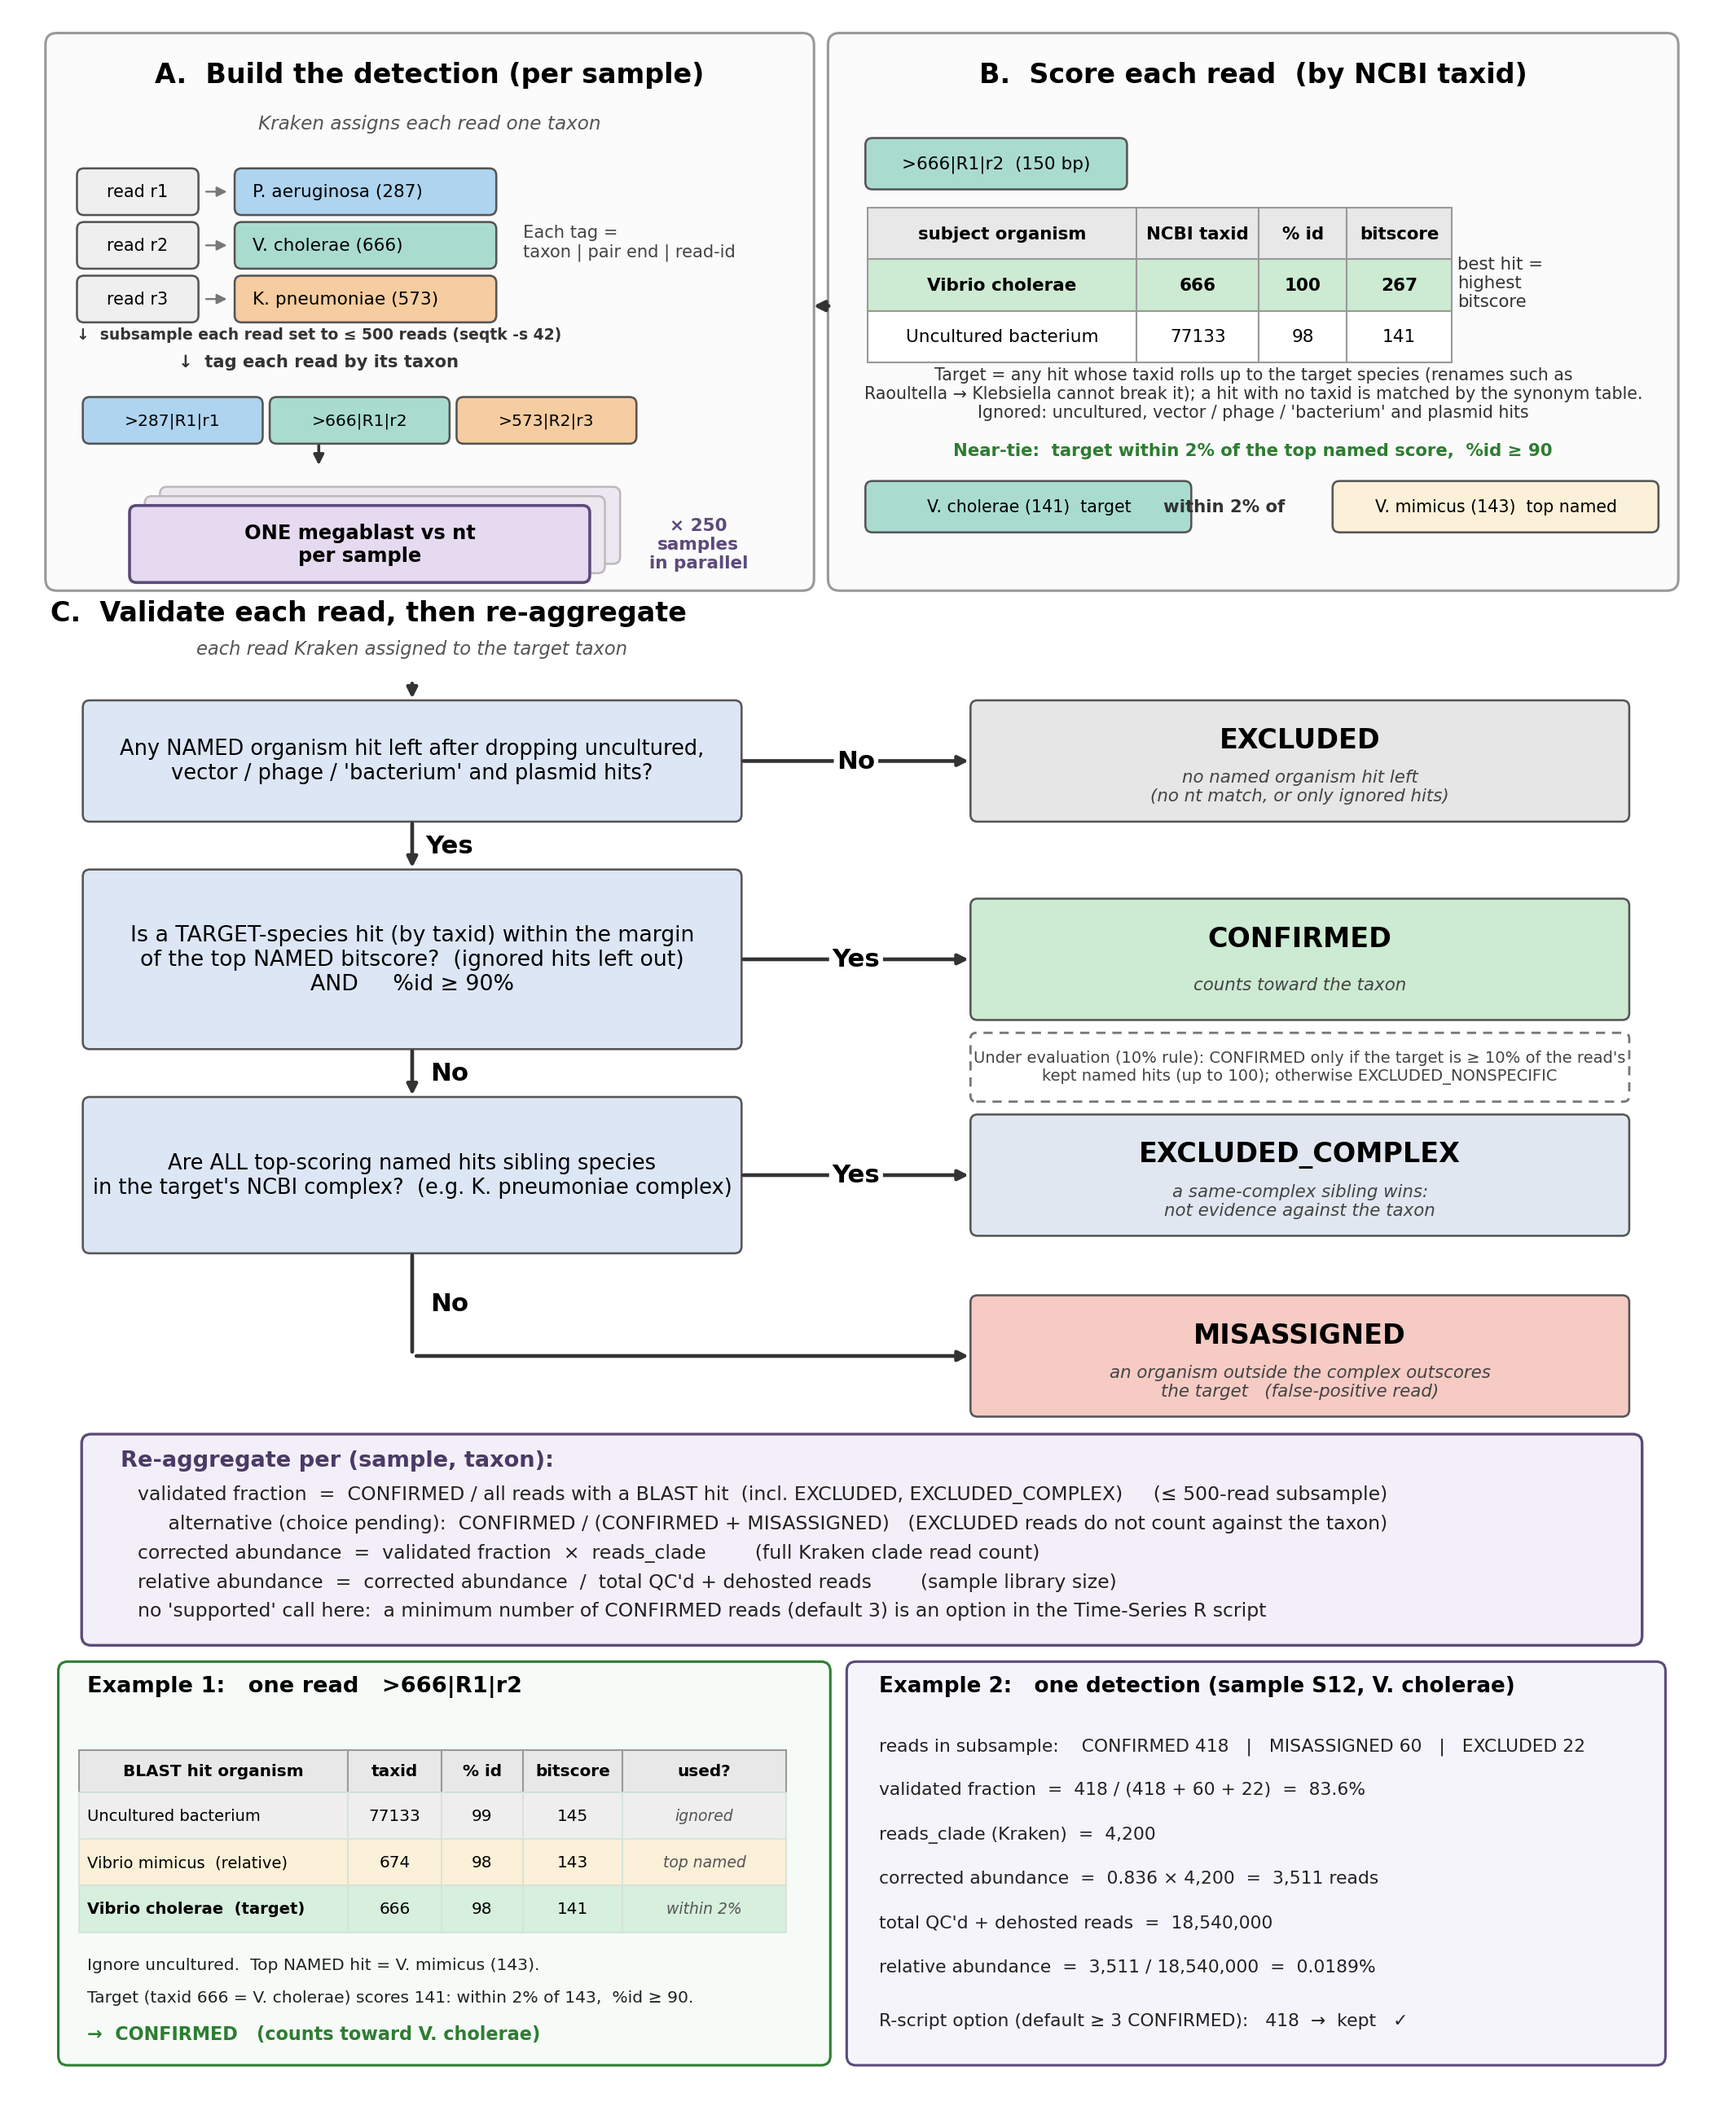
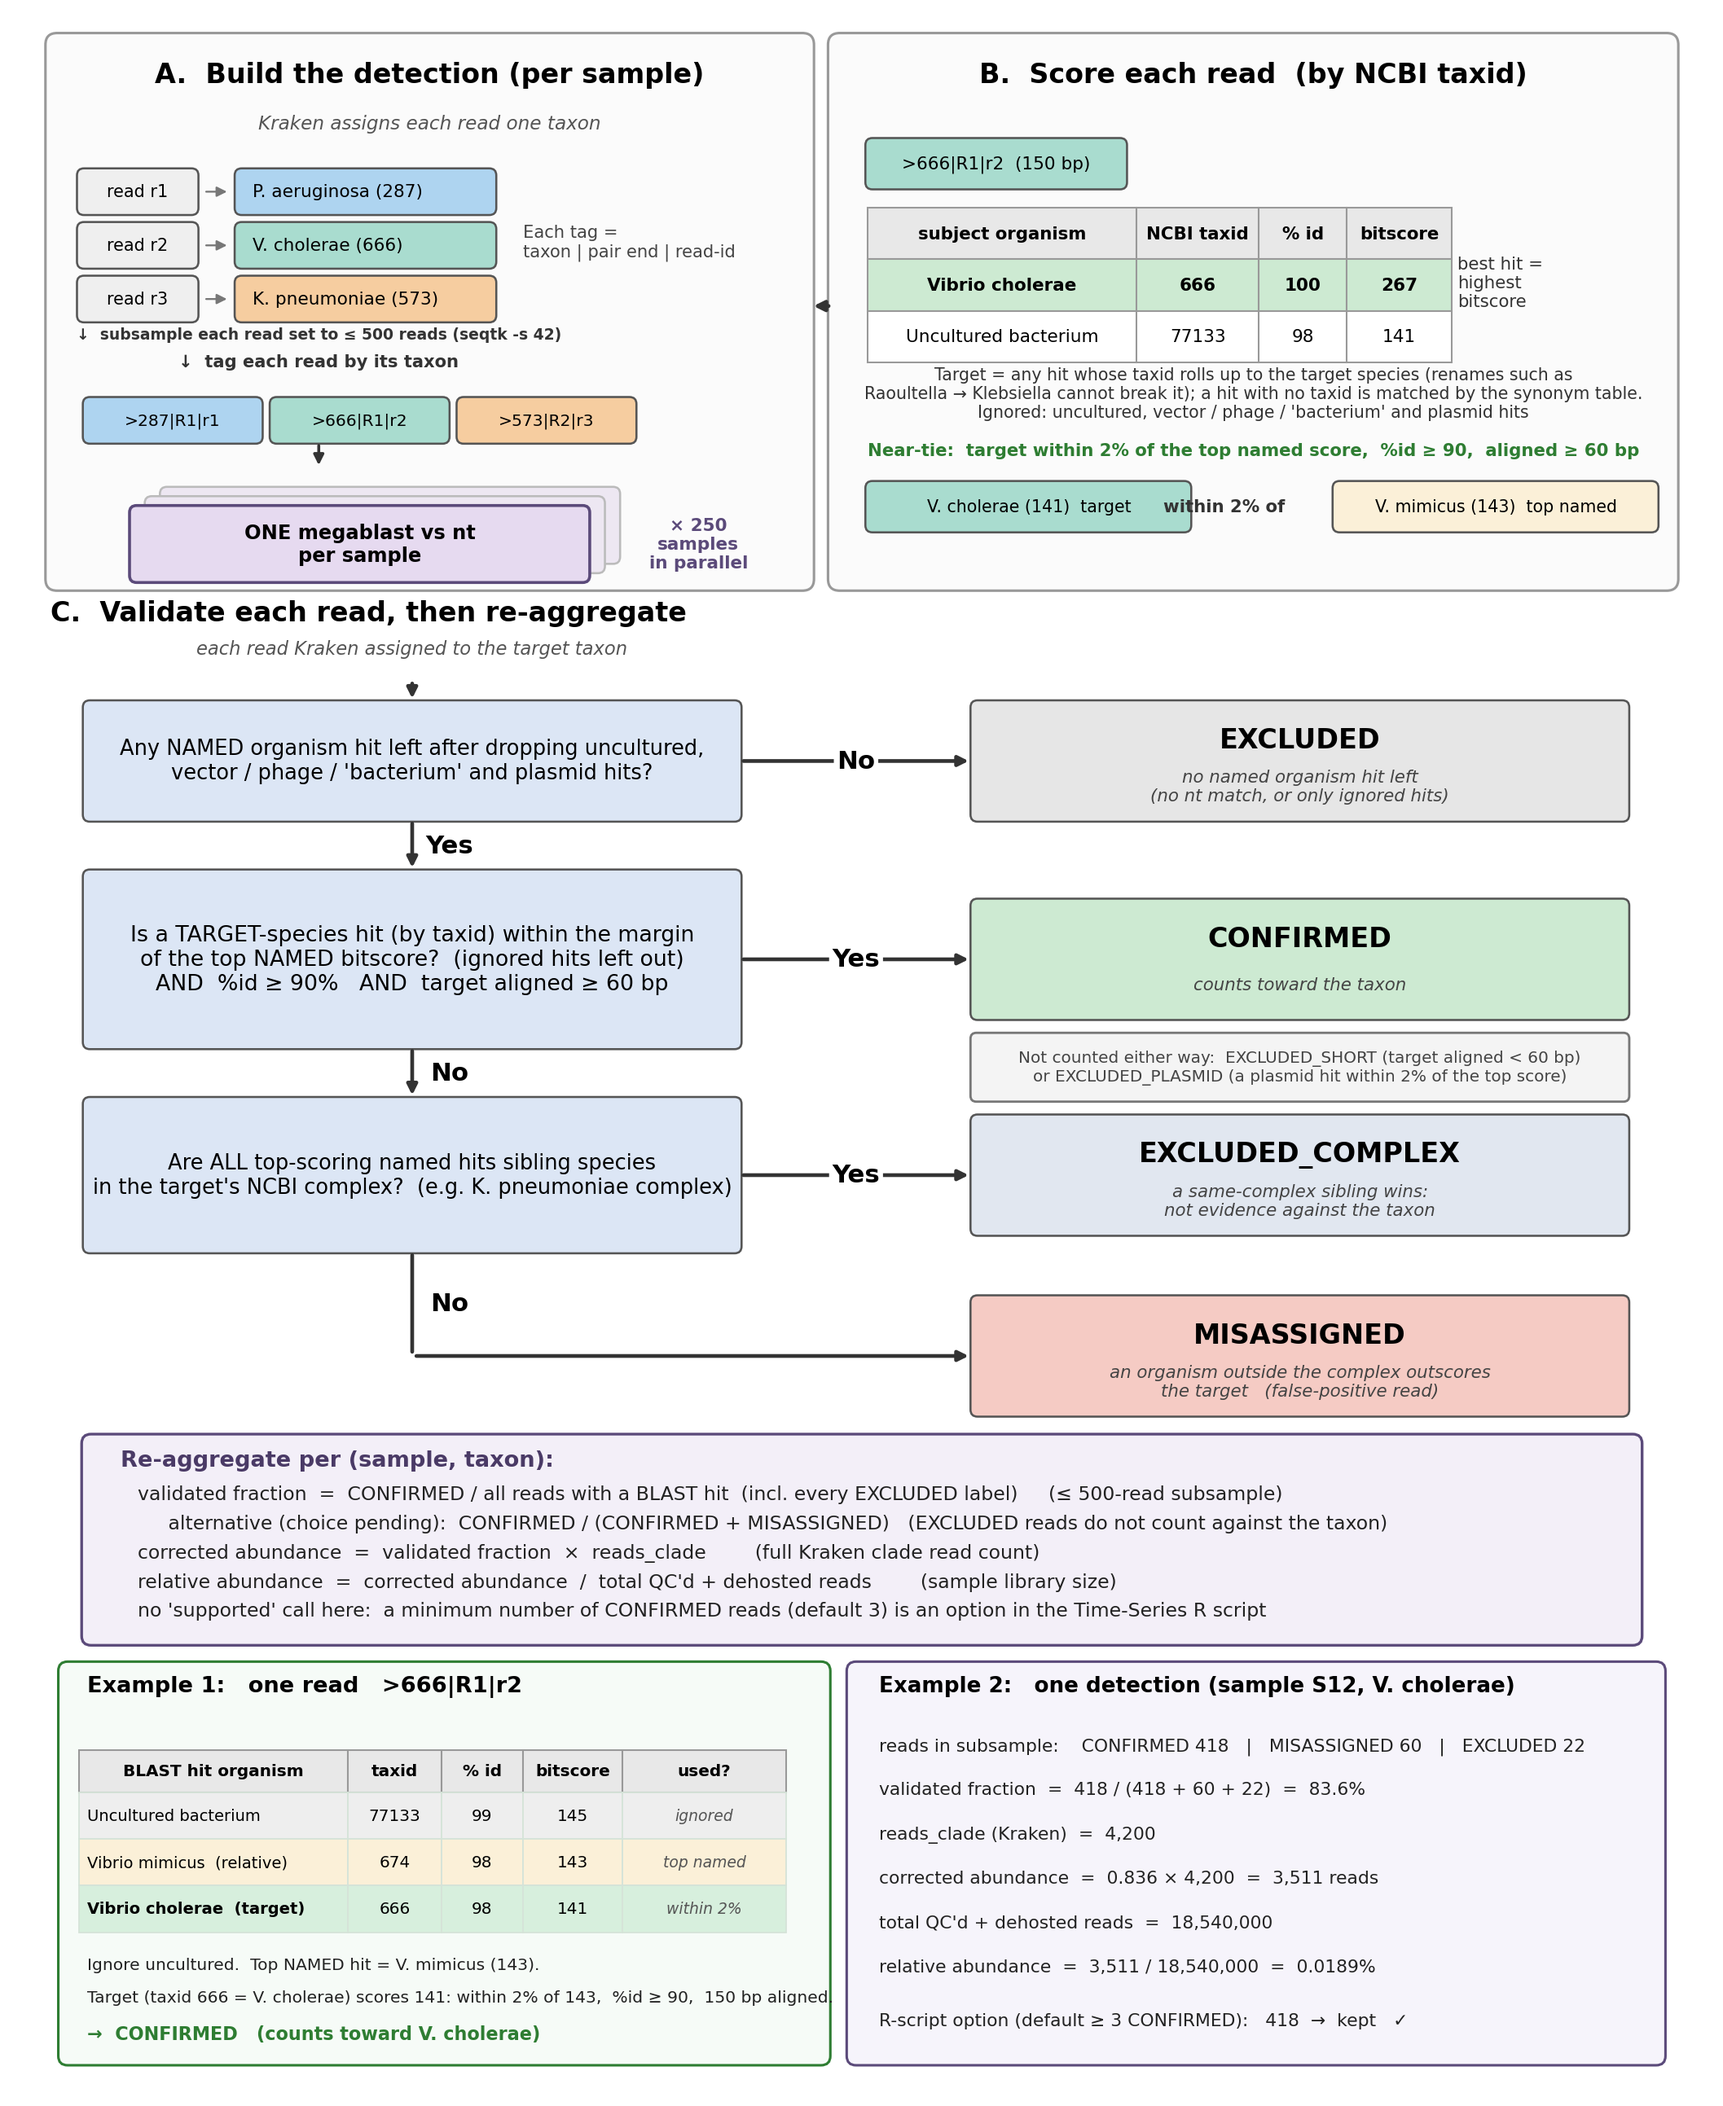
Final rules as defaults: 60 bp minimum alignment (#16), plasmid and non-organism hits ignored (#17, #19)
--min_aln_len defaults to 60 (40% of a 150 bp read); below it CONFIRMED reads tie with 3-5x more species.
--ignore_noncellular / --ignore_plasmid default on (--no-... to turn off). 10% rule stays off (not adopted).
Master figure: 60 bp in the CONFIRMED test, EXCLUDED_SHORT / EXCLUDED_PLASMID shown as not counted either way.

diff --git a/docs/make_master_methods_figure.py b/docs/make_master_methods_figure.py
@@ -5,9 +5,9 @@ Read-level validation v4 (workflow/scripts/false_positive_detection.py --taxonom
 hits are matched to the target by NCBI taxid rolled up to species (names + synonym table only as a fallback).
 Ignored hits: uncultured, non-organism (vector / phage / unidentified plasmid / "bacterium", #17) and any hit
 titled "plasmid" (#19). Each read is EXCLUDED (no named hit left), CONFIRMED (target within 2% of the top named
-bitscore, %id >= 90), EXCLUDED_COMPLEX (every top named hit is a sibling in the target's NCBI complex), or
-MISASSIGNED. The 10% rule (target >= 10% of kept named hits, else EXCLUDED_NONSPECIFIC) is drawn as under
-evaluation. Per (sample, taxon): validated fraction = CONFIRMED / all reads with a hit; corrected abundance =
+bitscore, %id >= 90, target aligned >= 60 bp), EXCLUDED_SHORT (would confirm but aligned < 60 bp), EXCLUDED_PLASMID
+(a plasmid hit scores within 2% of the top), EXCLUDED_COMPLEX (every top named hit is a sibling in the target's
+NCBI complex), or MISASSIGNED. The 10% rule was evaluated and not adopted. Per (sample, taxon): validated fraction = CONFIRMED / all reads with a hit; corrected abundance =
 validated fraction x full Kraken count. No 'supported' call: a minimum CONFIRMED count is an R-script option.
 Schematic/illustrative numbers.
 """
@@ -63,7 +63,7 @@ for i,row in enumerate(data):
 ax.text(12.35,15.5,"best hit =\nhighest\nbitscore",ha="left",va="center",fontsize=8.3,color="#333")
 ax.text(10.6,14.55,"Target = any hit whose taxid rolls up to the target species (renames such as\nRaoultella → Klebsiella cannot break it); a hit with no taxid is matched by the synonym table.\nIgnored: uncultured, vector / phage / 'bacterium' and plasmid hits",
         ha="center",va="center",fontsize=8.0,color="#333")
-ax.text(10.6,14.02,"Near-tie:  target within 2% of the top named score,  %id ≥ 90",ha="center",fontsize=8.3,fontweight="bold",color=GRN)
+ax.text(10.6,14.02,"Near-tie:  target within 2% of the top named score,  %id ≥ 90,  aligned ≥ 60 bp",ha="center",fontsize=8.3,fontweight="bold",color=GRN)
 rb(7.3,13.78,2.75,0.4,CHO); ax.text(8.68,13.58,"V. cholerae (141)  target",ha="center",va="center",fontsize=8.0)
 ax.text(10.35,13.58,"within 2% of",ha="center",va="center",fontsize=8.3,fontweight="bold",color="#333")
 rb(11.3,13.78,2.75,0.4,"#FBF0D8"); ax.text(12.68,13.58,"V. mimicus (143)  top named",ha="center",va="center",fontsize=8.0)
@@ -80,12 +80,12 @@ d1,d2,d3=11.4,9.7,7.85; hb=1.0; h2=1.5; h3=1.3; mis=6.3
 ax.text(3.4,12.32,"each read Kraken assigned to the target taxon",ha="center",fontsize=8.8,style="italic",color="#555")
 arrow(3.4,12.1,3.4,d1+hb/2,head=True)
 dec(d1,hb,"Any NAMED organism hit left after dropping uncultured,\nvector / phage / 'bacterium' and plasmid hits?",fs=10.0)
-dec(d2,h2,"Is a TARGET-species hit (by taxid) within the margin\nof the top NAMED bitscore?  (ignored hits left out)\nAND     %id ≥ 90%",fs=10.4)
+dec(d2,h2,"Is a TARGET-species hit (by taxid) within the margin\nof the top NAMED bitscore?  (ignored hits left out)\nAND  %id ≥ 90%   AND  target aligned ≥ 60 bp",fs=10.4)
 dec(d3,h3,"Are ALL top-scoring named hits sibling species\nin the target's NCBI complex?  (e.g. K. pneumoniae complex)",fs=10.0)
 leaf(d1,"EXCLUDED","no named organism hit left\n(no nt match, or only ignored hits)")
 leaf(d2,"CONFIRMED","counts toward the taxon")
-ax.add_patch(FancyBboxPatch((LX,8.5),LW,0.55,boxstyle="round,pad=0.02,rounding_size=0.05",lw=1.1,edgecolor="#777",facecolor="white",linestyle=(0,(4,3))))
-ax.text(LX+LW/2,8.775,"Under evaluation (10% rule): CONFIRMED only if the target is ≥ 10% of the read's\nkept named hits (up to 100); otherwise EXCLUDED_NONSPECIFIC",ha="center",va="center",fontsize=7.6,color="#444")
+ax.add_patch(FancyBboxPatch((LX,8.5),LW,0.55,boxstyle="round,pad=0.02,rounding_size=0.05",lw=1.1,edgecolor="#777",facecolor="#F4F4F4"))
+ax.text(LX+LW/2,8.775,"Not counted either way:  EXCLUDED_SHORT (target aligned < 60 bp)\nor EXCLUDED_PLASMID (a plasmid hit within 2% of the top score)",ha="center",va="center",fontsize=7.8,color="#444")
 leaf(d3,"EXCLUDED_COMPLEX","a same-complex sibling wins:\nnot evidence against the taxon")
 leaf(mis,"MISASSIGNED","an organism outside the complex outscores\nthe target   (false-positive read)")
 cx=SX+SW/2
@@ -99,7 +99,7 @@ arrow(cx,d3-h3/2,cx,mis,"No",lx=0.32,head=False); arrow(cx,mis,LX,mis)
 ax.add_patch(FancyBboxPatch((0.6,3.85),13.3,1.75,boxstyle="round,pad=0.03,rounding_size=0.08",lw=1.3,edgecolor="#5b4a7a",facecolor="#F3EFF8"))
 ax.text(0.9,5.36,"Re-aggregate per (sample, taxon):",fontsize=10.6,fontweight="bold",color="#4a3a66")
 for yy,txt in [
- (5.07,"validated fraction  =  CONFIRMED / all reads with a BLAST hit  (incl. EXCLUDED, EXCLUDED_COMPLEX)     (≤ 500-read subsample)"),
+ (5.07,"validated fraction  =  CONFIRMED / all reads with a BLAST hit  (incl. every EXCLUDED label)     (≤ 500-read subsample)"),
  (4.82,"     alternative (choice pending):  CONFIRMED / (CONFIRMED + MISASSIGNED)   (EXCLUDED reads do not count against the taxon)"),
  (4.57,"corrected abundance  =  validated fraction  ×  reads_clade        (full Kraken clade read count)"),
  (4.32,"relative abundance  =  corrected abundance  /  total QC'd + dehosted reads        (sample library size)"),
@@ -127,7 +127,7 @@ for i,(org,tid,pid,bit,note,bg) in enumerate(e1rows):
     ax.text(e1hx[3]+e1hw[3]/2,cyc,bit,ha="center",va="center",fontsize=7.8)
     ax.text(e1hx[4]+e1hw[4]/2,cyc,note,ha="center",va="center",fontsize=7.3,style="italic",color="#555")
 ax.text(0.62,1.04,"Ignore uncultured.  Top NAMED hit = V. mimicus (143).",fontsize=7.9,color="#222")
-ax.text(0.62,0.76,"Target (taxid 666 = V. cholerae) scores 141: within 2% of 143,  %id ≥ 90.",fontsize=7.9,color="#222")
+ax.text(0.62,0.76,"Target (taxid 666 = V. cholerae) scores 141: within 2% of 143,  %id ≥ 90,  150 bp aligned.",fontsize=7.9,color="#222")
 ax.text(0.62,0.44,"→  CONFIRMED   (counts toward V. cholerae)",fontsize=8.7,fontweight="bold",color=GRN)
 # ---- Example 2: is the (sample, taxon) supported? ----
 ax.add_patch(FancyBboxPatch((7.15,0.25),6.95,3.4,boxstyle="round,pad=0.03,rounding_size=0.08",lw=1.2,edgecolor="#5b4a7a",facecolor="#F6F4FB"))

diff --git a/workflow/scripts/false_positive_detection.py b/workflow/scripts/false_positive_detection.py
@@ -476,14 +476,15 @@ def main():
                          "read-level validation matches by NCBI taxid + flags same-complex siblings")
     ap.add_argument("--clade_counts", default=None,
                     help="optional TSV (sample, taxid, reads_clade, total_reads) -> adds corrected/relative abundance")
-    ap.add_argument("--min_aln_len", type=float, default=0,
-                    help="v4 decision #16: target alignment must be >= this many bp to CONFIRM (else EXCLUDED_SHORT)")
-    ap.add_argument("--ignore_noncellular", action="store_true",
-                    help="v4 decision #17: ignore vector / plasmid / phage / 'bacterium' hits like uncultured ones")
-    ap.add_argument("--ignore_plasmid", action="store_true",
-                    help="v4 decision #19: ignore any hit whose title says 'plasmid'")
+    ap.add_argument("--min_aln_len", type=float, default=60,
+                    help="v4 decision #16: target alignment must be >= this many bp to CONFIRM (else EXCLUDED_SHORT; "
+                         "default 60 = 40%% of a 150 bp read; 0 turns it off)")
+    ap.add_argument("--ignore_noncellular", action=argparse.BooleanOptionalAction, default=True,
+                    help="v4 decision #17 (default on): ignore vector / plasmid / phage / 'bacterium' hits like uncultured ones")
+    ap.add_argument("--ignore_plasmid", action=argparse.BooleanOptionalAction, default=True,
+                    help="v4 decision #19 (default on): hits titled 'plasmid' do not score; plasmid-borne reads are EXCLUDED_PLASMID")
     ap.add_argument("--min_target_frac", type=float, default=0,
-                    help="10%% rule (under evaluation): target must be >= this share of a read's kept named hits")
+                    help="10%% rule (not adopted, off by default): target must be >= this share of a read's kept named hits")
     a = ap.parse_args()
 
     taxid_to_name = {}
